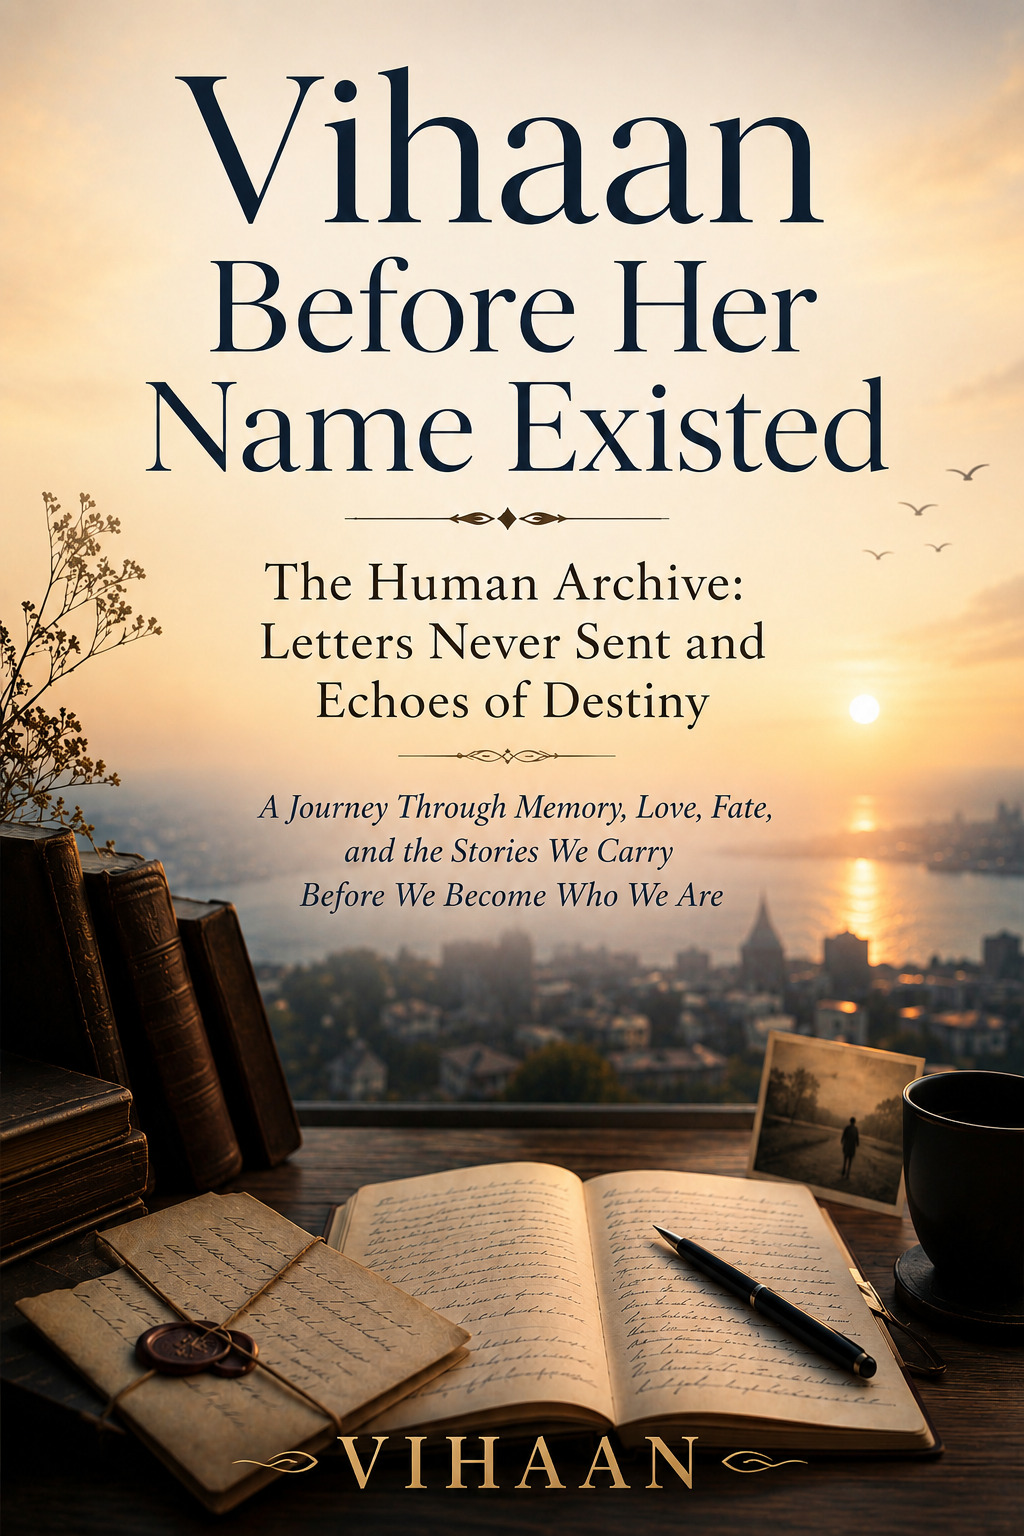
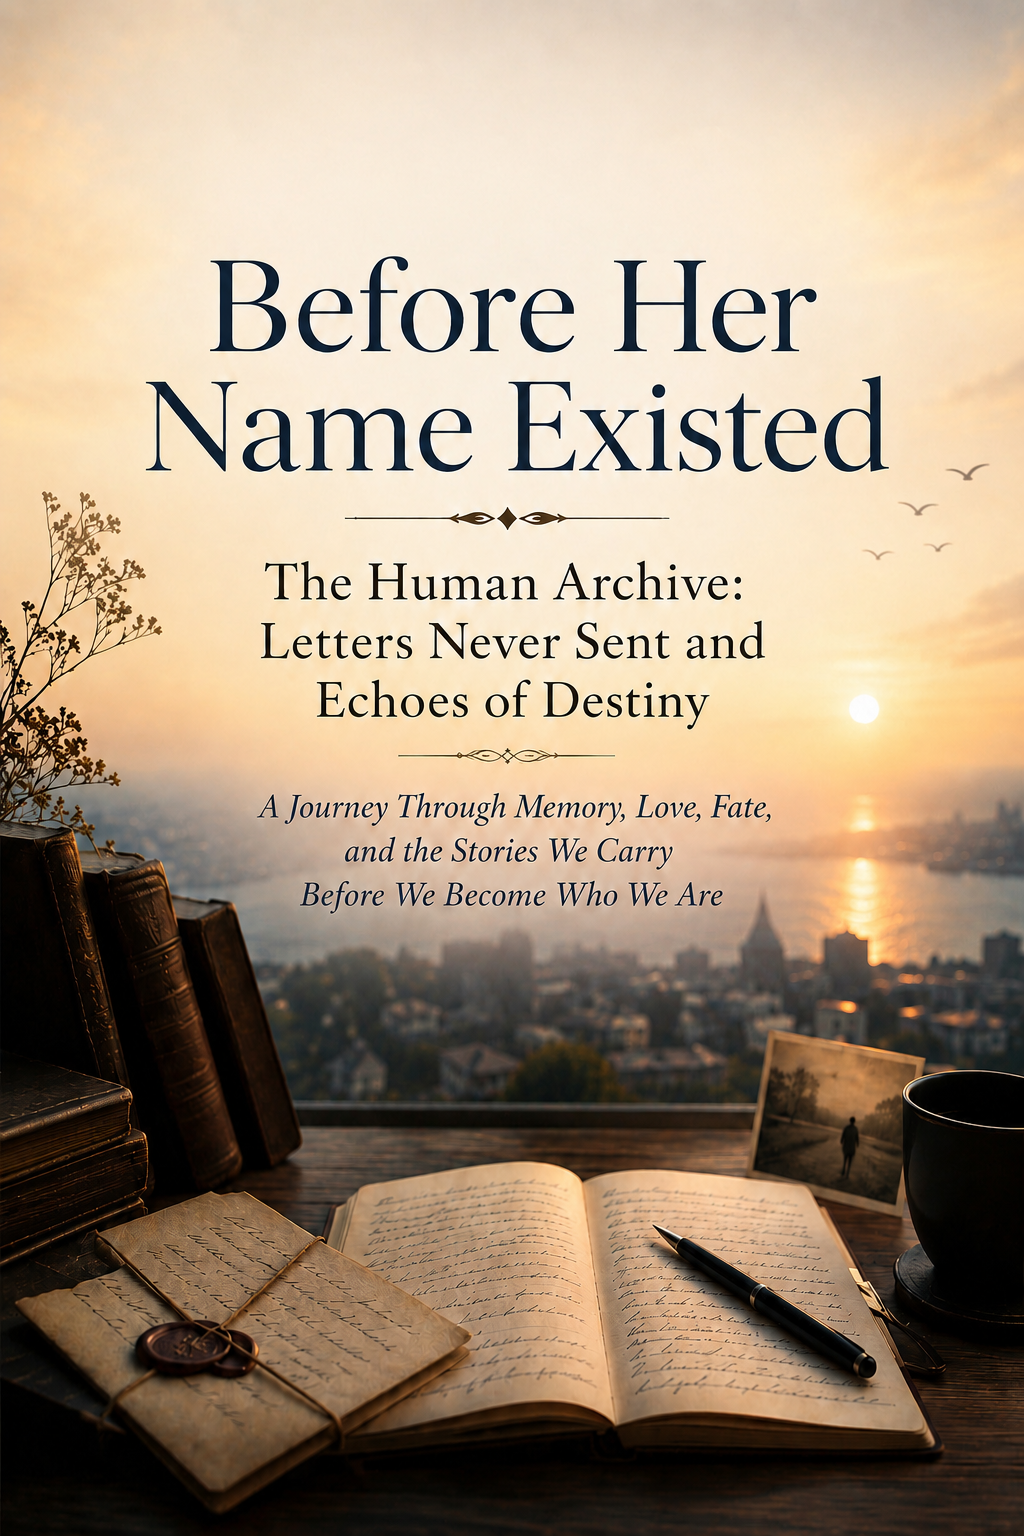
Before every meeting

diff --git a/app/stories/page.tsx b/app/stories/page.tsx
@@ -147,7 +147,7 @@ const books = [
   {
     id: 3,
 
-    title: "Vihaan Before Her Name Existed",
+    title: "Before Her Name Existed",
 
     subtitle:
       "A Journey Through Memory, Love, Fate, and the Stories We Carry Before We Become Who We Are",
